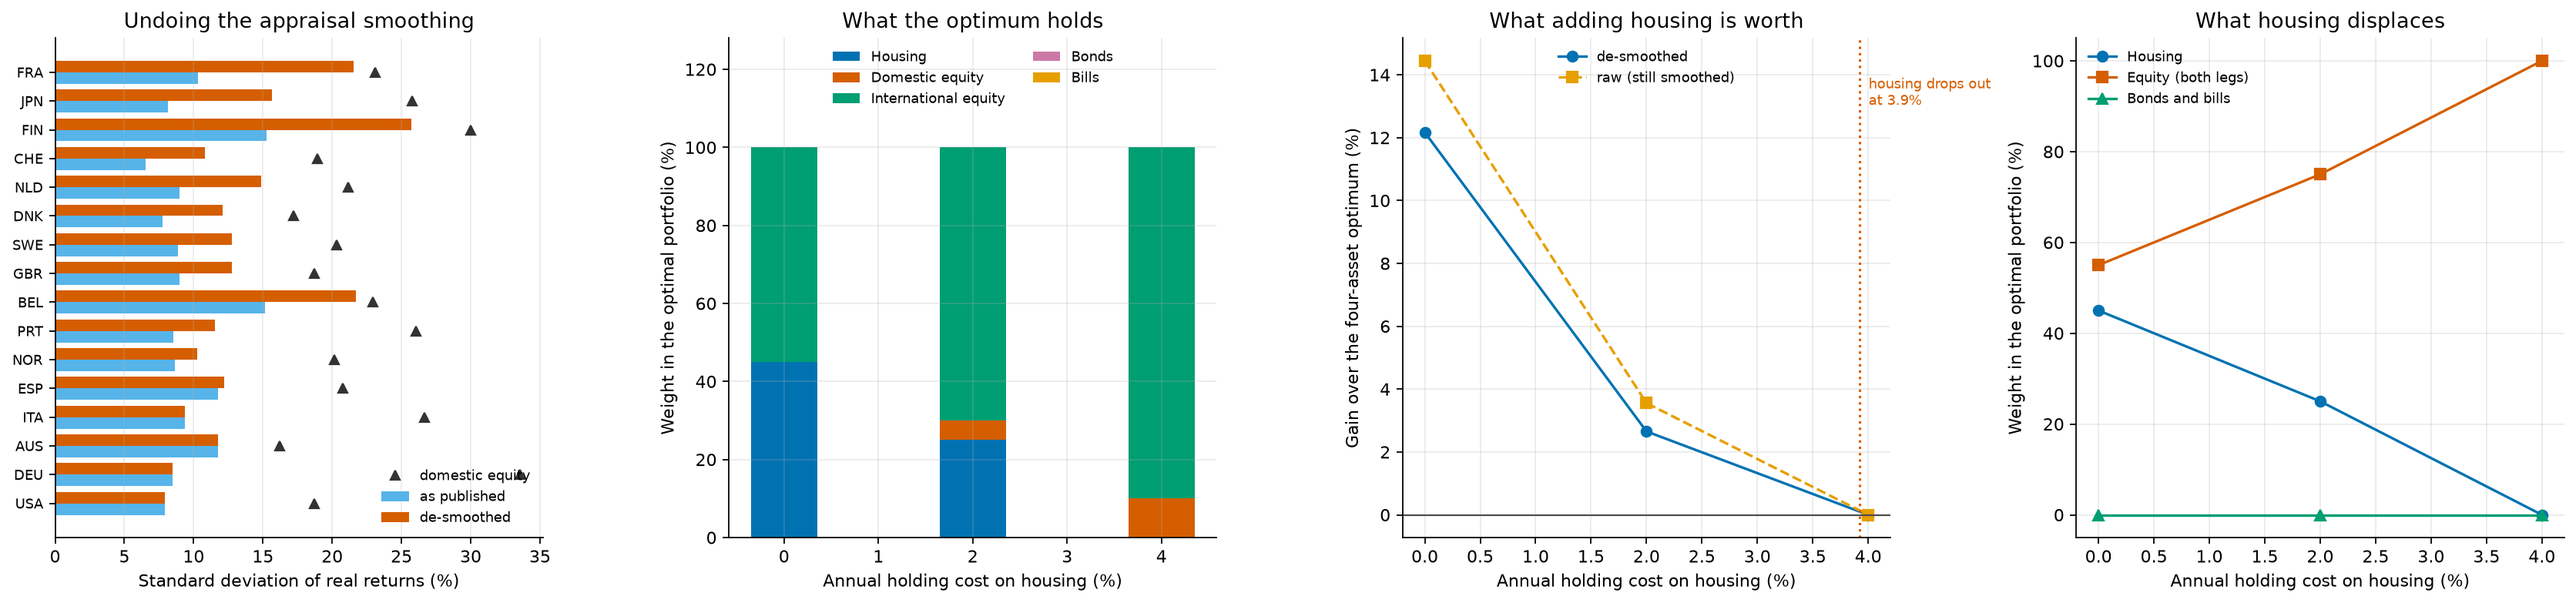
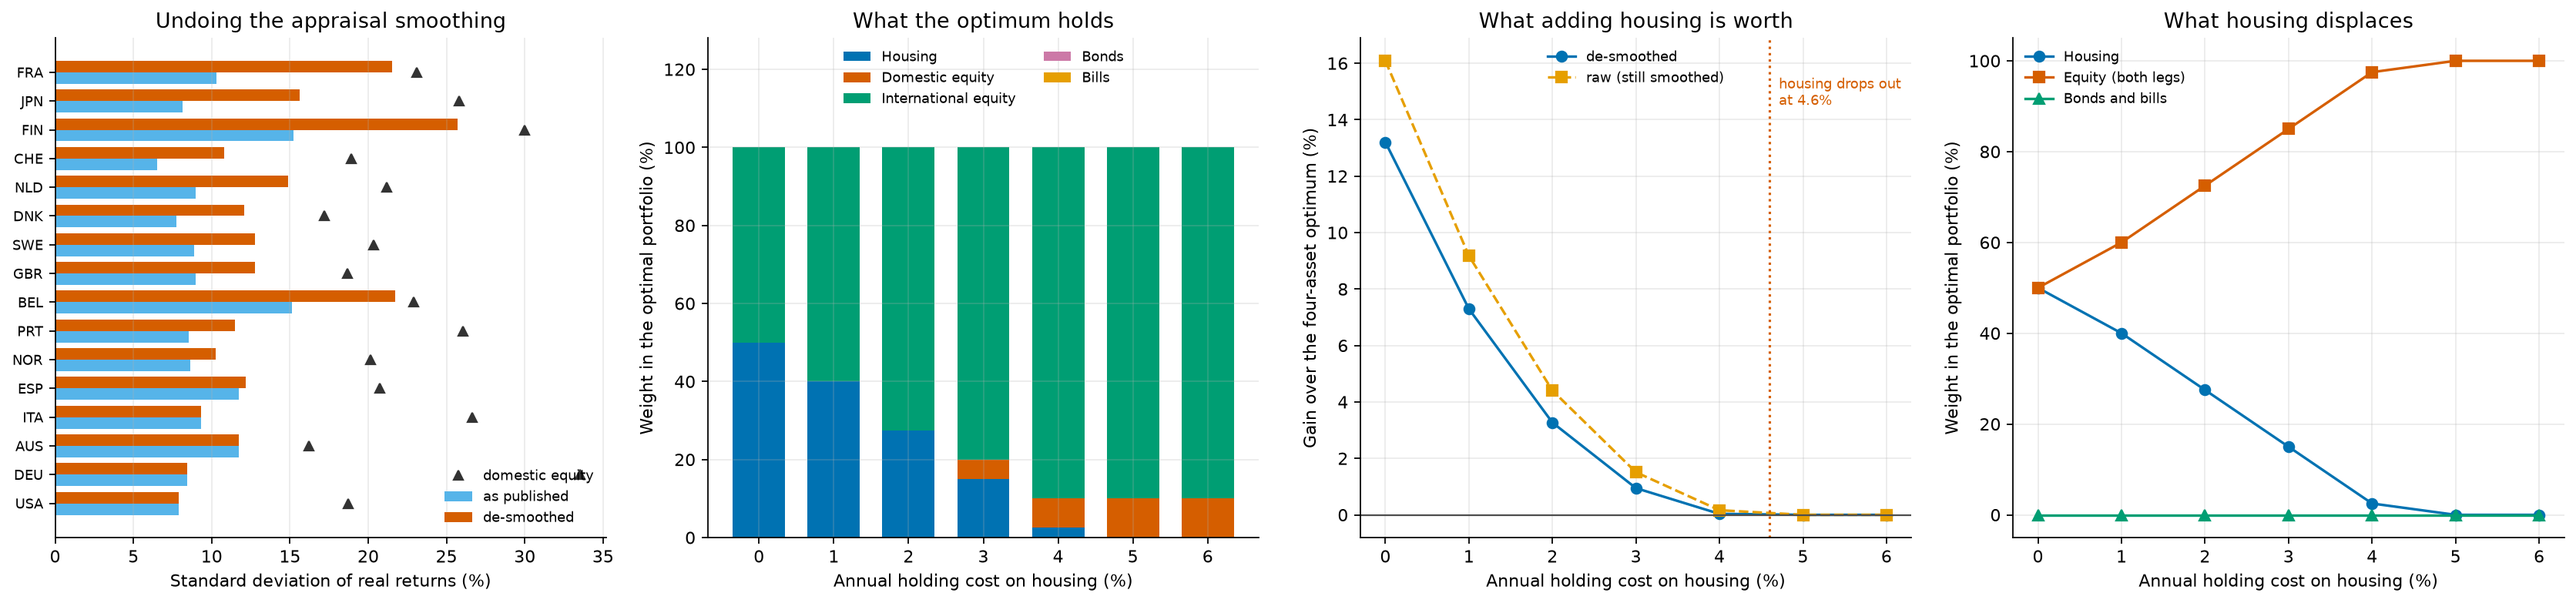
Correct the justification for seeding the age-varying search
The previous commit said the unseeded search "was landing below the
constant-mix answer -- 1.3148 against 1.3269". Those two numbers come
from different runs: 1.3148 is the 20,000-path age-varying solve and
1.3269 the 2,000-path quick-mode constant mix. Against its own baseline
the unseeded search was ahead (1.3148 against 1.3087 at 20,000 paths, and
likewise in quick mode), so no negative gain was ever observed.

The seeding stays, on the grounds that actually hold: a coordinate search
from an arbitrary start carries no guarantee of matching a point it did
not start from, and one that fell below the constant mix would report a
negative gain describing the optimiser rather than the shape. Seeding
rules that out by construction and converges in fewer sweeps. The
docstring now says that instead of claiming a failure that did not occur.

Claude-Session: https://claude.ai/code/session_01N7pEHUPwZbMXSfjciyf6PN

diff --git a/src/housing.py b/src/housing.py
@@ -360,11 +360,12 @@ def age_varying_check(paths: Any, spec: Any, income: np.ndarray,
 
     The search **starts from that constant-mix optimum** rather than from an
     equal weighting. Constant schedules are a subset of age-varying ones, so
-    the age-varying optimum cannot truly be worse; starting anywhere else
-    risks a coordinate search that lands below it and reports a negative gain,
-    which would be a fact about the search rather than about the shape. Seeded
-    this way the reported gain is exactly what age-variation adds, and it
-    cannot be negative.
+    the age-varying optimum cannot truly be worse -- but a coordinate search
+    from an arbitrary start carries no such guarantee, and one that landed
+    below the constant mix would report a negative gain that described the
+    optimiser rather than the shape. Seeding removes that failure mode by
+    construction and reaches the answer in fewer sweeps; the reported gain is
+    then exactly what age-variation adds.
     """
     from . import allocation as al
     from . import glidepath as gp

diff --git a/docs/16_housing.md b/docs/16_housing.md
@@ -3,7 +3,7 @@
 The fourth asset class the sources measure, priced by what it costs to hold.
 
 _This file is generated by `main.py`; edit `src/report.py` rather than the Markdown._
-Generated 2026-08-29 08:20 UTC.
+Generated 2026-08-29 08:43 UTC.
 
 ## 1. The asset that was left out
 
@@ -75,7 +75,7 @@ cells -- would mean inventing returns, so instead every asset is drawn from the
 same, smaller set of genuinely observed years.
 
 The four-asset control is re-solved on that same restricted panel and against
-the same 2,000 lifetimes and the same income draws, so the
+the same 20,000 lifetimes and the same income draws, so the
 restriction cancels out of every comparison below. Its own optimum is
 10% domestic equity,
 90% international,
@@ -91,25 +91,30 @@ two rows is the holding cost and nothing else.
 
 | Holding cost (%) | Housing (%) | Dom. equity (%) | Intl. equity (%) | Bonds (%) | Bills (%) | CEC | Gain over four assets (%) |
 | --- | --- | --- | --- | --- | --- | --- | --- |
-| 0.00 | 45.00 | 0.00 | 55.00 | 0.00 | 0.00 | 1.33 | 12.17 |
-| 2.00 | 25.00 | 5.00 | 70.00 | 0.00 | 0.00 | 1.21 | 2.65 |
-| 4.00 | 0.00 | 10.00 | 90.00 | 0.00 | 0.00 | 1.18 | 0.00 |
+| 0.00 | 50.00 | 0.00 | 50.00 | 0.00 | 0.00 | 1.31 | 13.20 |
+| 1.00 | 40.00 | 0.00 | 60.00 | 0.00 | 0.00 | 1.24 | 7.30 |
+| 2.00 | 27.50 | 0.00 | 72.50 | 0.00 | 0.00 | 1.19 | 3.27 |
+| 3.00 | 15.00 | 5.00 | 80.00 | 0.00 | 0.00 | 1.17 | 0.95 |
+| 4.00 | 2.50 | 7.50 | 90.00 | 0.00 | 0.00 | 1.16 | 0.04 |
+| 5.00 | 0.00 | 10.00 | 90.00 | 0.00 | 0.00 | 1.16 | 0.00 |
+| 6.00 | 0.00 | 10.00 | 90.00 | 0.00 | 0.00 | 1.16 | 0.00 |
 
-**Housing is worth holding below an annual cost of 3.9% and not above it.** At no cost the optimum puts 45% of the portfolio in it, worth 12.2% in certainty-equivalent consumption over the best four-asset portfolio on the same paths; that gain falls away as the cost rises and reaches zero at 3.9% a year.
+**Housing is worth holding below an annual cost of 4.6% and not above it.** At no cost the optimum puts 50% of the portfolio in it, worth 13.2% in certainty-equivalent consumption over the best four-asset portfolio on the same paths; that gain falls away as the cost rises and reaches zero at 4.6% a year.
 
-The weight comes out of **international equity**, which falls 35% of the portfolio between the dearest and the free case -- more than any other asset gives up. That is the economically interesting part: housing competes with the sleeve it most resembles, not with the portfolio as a whole.
+The weight comes out of **international equity**, which falls 40% of the portfolio between the dearest and the free case -- more than any other asset gives up. Bonds, bills are untouched at every cost, so housing is not substituting for the portfolio at large: it is competing with the one holding that already does this job.
 
 ## 5. Is the answer an artefact of the smoothing?
 
-Left smoothed, the same search puts 50% in housing at zero cost against 45% once the smoothing is undone, and its break-even cost is 3.9% against 3.9%. The naive treatment therefore **overstates** the case for housing, which is the direction the mechanism predicts: smoothing hides volatility, and hidden volatility looks like risk-adjusted return.
+Left smoothed, the same search puts 55% in housing at zero cost against 50% once the smoothing is undone, and its break-even cost is 4.80% against 4.60%. The naive treatment therefore **overstates** the case for housing, which is the direction the mechanism predicts: smoothing hides volatility, and hidden volatility looks like risk-adjusted return.
 
 ## 6. Is the answer an artefact of holding one allocation for life?
 
 | Holding cost (%) | Housing, mean (%) | While working (%) | In retirement (%) | Constant-mix housing (%) | CEC | Gain over constant mix (%) |
 | --- | --- | --- | --- | --- | --- | --- |
-| 0.00 | 42.21 | 37.89 | 47.67 | 45.00 | 1.34 | 1.33 |
+| 0.00 | 44.26 | 40.00 | 49.67 | 50.00 | 1.31 | 0.47 |
+| 3.00 | 14.41 | 4.47 | 27.00 | 15.00 | 1.19 | 2.27 |
 
-Letting the allocation vary with age moves the mean housing weight by at most 3% of the portfolio and buys at most 1.33% more certainty-equivalent consumption -- large enough that the constant-mix reading above should be treated as indicative only.
+Letting the allocation vary with age moves the mean housing weight by at most 6% of the portfolio and buys at most 2.27% more certainty-equivalent consumption -- large enough that the constant-mix reading above should be treated as indicative only.
 
 ## 7. What this is not
 
@@ -138,5 +143,5 @@ a constant charge is the tractable approximation, not the truth.
 python main.py --steps 16
 ```
 
-Runtime 24s at 2,000
+Runtime 1257s at 20,000
 paths, risk aversion 5.

diff --git a/docs/01_country_dataset_and_sources.md b/docs/01_country_dataset_and_sources.md
@@ -3,7 +3,7 @@
 Construction of the long-horizon developed-market real return panel used to replicate Anarkulova, Cederburg and O'Doherty (2023/2024), *Beyond the Status Quo: A Critical Assessment of Lifecycle Asset Allocation*.
 
 _This file is generated by `main.py`; edit `src/report.py` rather than the Markdown._
-Generated 2026-08-29 08:22 UTC.
+Generated 2026-08-29 08:43 UTC.
 
 ## 1. What this panel is, and what it is not
 
